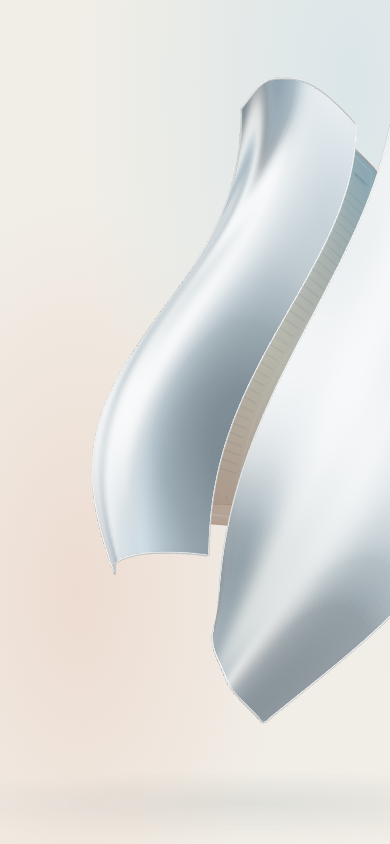
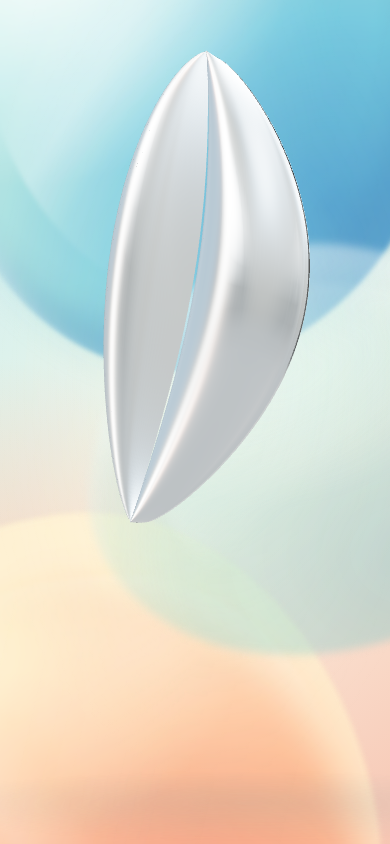
art(genesis): sculpt twin titanium shells and compose the Genesis 03 opening
Replace the irregular folios with drawn cambered shells, a rising shut-line and closed cut sections. Compose portrait framing for iPhone and iPad, articulate the opening and preserve the 30% camera handoff and downstream collections.

Verified 104 Chromium/WebKit states, real scroll/reverse and spring motion. Publish the production build and official homepage references atomically.

diff --git a/genesis-01/src.js b/genesis-01/src.js
@@ -3,9 +3,10 @@ import { createContinuum } from './continuum.js';
 import { opticalFilm } from './optics.js';
 import { createRevelation } from './revelation.js';
 import { stepSpring, openingAir } from './motion.js';
+import { folio, shellSkin, shellEdge } from './sculpture.js';
 import { RoomEnvironment } from 'three/addons/environments/RoomEnvironment.js';
 
-// A new procedural artifact: two unequal folded folios, never a swept ribbon.
+// GENESIS 03: two drawn titanium shells around one rising shut-line.
 // All deformation and camera motion share one reversible 0–1 timeline.
 const stage = document.querySelector('#stage');
 const fallback = document.querySelector('#fallback');
@@ -33,14 +34,22 @@ const room=new RoomEnvironment();
 const card=(color,x,y,z,sx,sy)=>{const m=new THREE.Mesh(new THREE.PlaneGeometry(sx,sy),new THREE.MeshBasicMaterial({color,side:THREE.DoubleSide}));m.position.set(x,y,z);m.lookAt(0,0,0);room.add(m);};
 card(0x18242c,-1.65,.2,4,.62,7);card(0xfff5e7,1.8,2,3,.65,6);
 card(0xc1e4ff,-3,2,2,3,7);card(0xf3c9ac,4,-1,1,2,6);card(0x252a30,1,1,-3,1.8,7);
-const env=pmrem.fromScene(room,.04);scene.environment=env.texture;room.dispose();pmrem.dispose();
+const env=pmrem.fromScene(room,.04);scene.environment=env.texture;
+// Only the opening sculpture receives this coachwork studio. The archive,
+// editorial rail and collection gateway keep their existing environment.
+for(const child of [...room.children]) if(child.geometry?.type==='PlaneGeometry'){
+ child.geometry.scale(1.45,1.12,1);
+}
+const sculptureEnvironment=pmrem.fromScene(room,.035).texture;
+room.dispose();pmrem.dispose();
 scene.add(new THREE.HemisphereLight(0xdceefa,0xd7b7a2,.75));
 const key=new THREE.DirectionalLight(0xfff5e6,2.2);key.position.set(-3,5,6);scene.add(key);
 const sky=new THREE.DirectionalLight(0xb9d8ef,1.4);sky.position.set(4,2,-1);scene.add(sky);
 const peach=new THREE.DirectionalLight(0xf6baa0,.8);peach.position.set(-2,-3,3);scene.add(peach);
 const sculpture=new THREE.Group();scene.add(sculpture);sculpture.rotation.set(-.09,-.32,-.18);
-const titanium=new THREE.MeshPhysicalMaterial({color:0x91a0a7,metalness:.96,roughness:.34,anisotropy:.42,clearcoat:.16,clearcoatRoughness:.26,side:THREE.DoubleSide});
+const titanium=new THREE.MeshPhysicalMaterial({color:0xc1cbd0,metalness:.94,roughness:.24,anisotropy:.28,clearcoat:.24,clearcoatRoughness:.20,side:THREE.DoubleSide});
 const edgeMaterial=new THREE.MeshStandardMaterial({color:0xdde3e4,metalness:1,roughness:.12,transparent:true});
+titanium.envMap=edgeMaterial.envMap=sculptureEnvironment;
 titanium.transparent=true;titanium.forceSinglePass=true;
 // Deterministic hairline finish; no external texture or noise animation.
 const finish=new Uint8Array(256*256*4);
@@ -49,44 +58,18 @@ for(let y=0;y<256;y++)for(let x=0;x<256;x++){
  finish[i]=finish[i+1]=finish[i+2]=n;finish[i+3]=255;
 }
 const brushed=new THREE.DataTexture(finish,256,256);brushed.wrapS=brushed.wrapT=THREE.RepeatWrapping;brushed.repeat.set(3,1);brushed.needsUpdate=true;
-titanium.bumpMap=brushed;titanium.bumpScale=.004;
+titanium.bumpMap=brushed;titanium.bumpScale=.00065;
 // Broad satin faces and a finer pressed crest respond differently to the
 // same light card; the finish stays attached to the authored surface UVs.
 titanium.onBeforeCompile=shader=>{
  shader.fragmentShader=shader.fragmentShader.replace('#include <roughnessmap_fragment>',`#include <roughnessmap_fragment>
   float pressed = smoothstep(.55,.70,vBumpMapUv.x) * (1.0-smoothstep(.70,.86,vBumpMapUv.x));
-  roughnessFactor = clamp(roughnessFactor + .045*sin(vBumpMapUv.y*8.0) - .11*pressed,.23,.46);
+  roughnessFactor = clamp(roughnessFactor + .018*sin(vBumpMapUv.y*3.14159) - .035*pressed,.19,.29);
  `);
 };
 const films=[];const morphs=[];const filmEdges=[];
 
-// s: left/right folio, u: spine→cut edge, v: foot→crown, open: authored morph target.
-function folio(s,u,v,open=0,layer=-1){
- const t=v*2-1;
- const w=s<0 ? .92 : 1.58;
- const crown=s<0 ? .12 : -.30;
- const width=w*(.42+.64*Math.sin(v*Math.PI*.92)+.12*Math.sin(v*7));
- const seam=.25*Math.sin(t*2.1)+.10*t;
- let x=seam+s*(.085+width*u);
- let y=t*2.26 + crown*u + .20*Math.sin(u*Math.PI)*Math.sin(v*2.4) - .38*u*u*(1-v) - .42*u*u*Math.pow(v,5);
- // A pressed ridge and broad concave face: a folio with material memory.
- let z=.64*Math.sin(u*Math.PI*1.12)+.48*u*u+.32*Math.sin(v*4+u*2)-.12*t;
- z+=s<0 ? .18*u : -.19*u;
- z+=.19*Math.tanh((u-.65)*9)+.32*Math.pow(v,5)*u;
- // Pressed shoulder, shallow concavity and a rolled cut edge. The crease
- // remains deliberately asymmetric, like a hand-formed body panel.
- z+=.055*Math.exp(-Math.pow((u-.965)*24,2))*Math.sin(v*Math.PI);
- z-=.07*Math.sin(u*Math.PI)*Math.sin(v*Math.PI*1.2);
- if(s<0){y=y*.85+.13;x-=.13*Math.pow(v,4);}
- x+=s*open*(.5+u*.9);z+=open*(u*.4);y+=open*s*u*.14;
- if(layer>=0){
-  x=seam+(x-seam)*(.86-layer*.045);
-  y=y*(.91-layer*.025)+layer*.045;
-  z-=.65+layer*.18;
- }
- return new THREE.Vector3(x,y,z);
-}
-function grid(fn,nu=44,nv=92){
+function grid(fn,nu=56,nv=128){
  const points=[],uv=[],idx=[];
  for(let j=0;j<=nv;j++)for(let i=0;i<=nu;i++){points.push(...fn(i/nu,j/nv).toArray());uv.push(i/nu,j/nv);}
  for(let j=0;j<nv;j++)for(let i=0;i<nu;i++){const a=j*(nu+1)+i,b=a+nu+1;idx.push(a,b,a+1,b,b+1,a+1);}
@@ -96,17 +79,9 @@ function morphMesh(closed,opened,material){
  closed.morphAttributes.position=[opened.attributes.position];closed.morphAttributes.normal=[opened.attributes.normal];
  const mesh=new THREE.Mesh(closed,material);sculpture.add(mesh);morphs.push(mesh);return mesh;
 }
-function border(s,open){
- const pts=[];
- for(let j=0;j<=92;j++)pts.push(folio(s,0,j/92,open));
- for(let i=1;i<=44;i++)pts.push(folio(s,i/44,1,open));
- for(let j=91;j>=0;j--)pts.push(folio(s,1,j/92,open));
- for(let i=43;i>=0;i--)pts.push(folio(s,i/44,0,open));
- return new THREE.TubeGeometry(new THREE.CatmullRomCurve3(pts,true),256,.009,5,true);
-}
 for(const s of [-1,1]){
- morphMesh(grid((u,v)=>folio(s,u,v)),grid((u,v)=>folio(s,u,v,1)),titanium);
- morphMesh(border(s,0),border(s,1),edgeMaterial);
+ morphMesh(shellSkin(s,0),shellSkin(s,1),titanium);
+ morphMesh(shellEdge(s,0),shellEdge(s,1),edgeMaterial);
 }
 // A narrow opalescent seam is physically caught between the two metal lips.
 const seamPoint=(u,v,open)=>{
@@ -204,11 +179,13 @@ function pose(p,air=p){
  titanium.envMapIntensity=1.07+.11*depth-.06*archive+.13*returnLight;
  // Reflection travels across the final plate once, then comes to rest.
  scene.environmentRotation.set(0,.10*awake+.12*depth-.08*archive+.40*ease(.94,.995,p),0);
+ titanium.envMapRotation.copy(scene.environmentRotation);
+ edgeMaterial.envMapRotation.copy(scene.environmentRotation);
  key.position.set(-3+2.2*returnLight,5,6);
  seam.morphTargetInfluences[0]=ease(.17,.235,p);
- seamMaterial.uniforms.opacity.value=.68*(1-ease(.22,.27,p));
+ seamMaterial.uniforms.opacity.value=.52*(1-ease(.178,.22,p));
  seamMaterial.uniforms.lightPhase.value=air;
- films.forEach(film=>{film.material.uniforms.lightPhase.value=air;});
+ films.forEach(film=>{film.material.uniforms.lightPhase.value=air;film.material.uniforms.opacity.value=.84*ease(.165,.225,p);});
  edgeMaterial.roughness=.12+.025*archive;
  const opening=ease(.17,.235,p),split=ease(.23,.27,p),pass=ease(.27,.30,p);
  // CSS and WebGL receive the same progress rather than drifting independently.
@@ -216,21 +193,27 @@ function pose(p,air=p){
  atmosphere.style.setProperty('--optic-align',ease(.37,.43,air).toFixed(3));
  for(let i=0;i<4;i++)morphs[i].morphTargetInfluences[0]=opening;
  films.forEach((film,i)=>{
-  const release=ease(.23+i*.0015,.264+i*.0015,p);
+  const release=ease(.205+i*.002,.267+i*.001,p);
   film.morphTargetInfluences[0]=release;filmEdges[i].morphTargetInfluences[0]=release;
  });
  // The artifact stays in place. The camera crosses its z-depth at the final beat.
- sculpture.position.set(mobile?.48:1.16,mobile?.53:.05,0);
- sculpture.scale.setScalar(mobile?.78:1);
- sculpture.rotation.x=-.09+.035*Math.sin(awake*Math.PI);
- sculpture.rotation.y=THREE.MathUtils.lerp(-.42,0,split)+.095*Math.sin(awake*Math.PI);
- sculpture.rotation.z=THREE.MathUtils.lerp(-.21,-.035,split);
+ const portraitRoom=clamp((measuredHeight-667)/177,0,1);
+ sculpture.position.set(mobile?-.06:1.30,mobile?THREE.MathUtils.lerp(.86,1.02,portraitRoom)-.12*opening:.10,0);
+ sculpture.scale.setScalar(mobile?THREE.MathUtils.lerp(.56,.71,portraitRoom)*(1-.08*opening):1);
+ sculpture.rotation.x=-.10+.07*Math.sin(awake*Math.PI);
+ sculpture.rotation.y=THREE.MathUtils.lerp(-.48,-.04,split)+.22*ease(0,.16,p)*(1-split);
+ sculpture.rotation.z=THREE.MathUtils.lerp(-.23,-.035,split);
  const startZ=mobile?10.2:9.5;
  // Hold a composed portrait while the fold opens, before the camera enters.
- const approach=ease(.12,.23,p)*.66+awake*.06;
+ const approach=ease(.12,.23,p)*(mobile?.26:.66)+awake*.06;
  const threshold=ease(.23,.27,p)*4.13;
- const penetration=pass*(startZ-4.0);
- camera.position.set(THREE.MathUtils.lerp(0,sculpture.position.x,split),THREE.MathUtils.lerp(.12,sculpture.position.y,split),startZ-approach-threshold-penetration);
+ camera.position.set(THREE.MathUtils.lerp(0,sculpture.position.x,split),THREE.MathUtils.lerp(.12,sculpture.position.y,split),THREE.MathUtils.lerp(startZ-approach-threshold,-.85,pass));
+ camera.lookAt(camera.position.x,camera.position.y,-8);
+ const handoff=ease(.27,.30,p);
+ sculpture.position.x=THREE.MathUtils.lerp(sculpture.position.x,mobile?.48:1.16,handoff);
+ sculpture.position.y=THREE.MathUtils.lerp(sculpture.position.y,mobile?.53:.05,handoff);
+ camera.position.x=THREE.MathUtils.lerp(camera.position.x,sculpture.position.x,handoff);
+ camera.position.y=THREE.MathUtils.lerp(camera.position.y,sculpture.position.y,handoff);
  camera.lookAt(camera.position.x,camera.position.y,-8);
  const scatter=ease(.30,.37,p),arrive=ease(.37,.43,p);
  if(p>.30){
@@ -246,7 +229,7 @@ function pose(p,air=p){
  const reunion=ease(.925,.989,p);
  titanium.opacity=edgeMaterial.opacity=p>.90?ease(.925,.949,p):1;
  sculpture.visible=p<.48||p>.925;
- seam.visible=p<.27;
+ seam.visible=p<.22;
  if(p>.925){
   // Metal returns from behind the leaves along their common spine; it never
   // scales up from a zero-sized object in the middle of the photograph.
@@ -256,7 +239,7 @@ function pose(p,air=p){
   for(let i=0;i<4;i++)morphs[i].morphTargetInfluences[0]=.44*(1-reunion);
  }
  // Leave the surfaces behind the camera instead of carrying them into the rail.
- films.forEach(film=>film.visible=p<.48);filmEdges.forEach(rim=>rim.visible=p<.48);
+ films.forEach(film=>film.visible=p<.48);filmEdges.forEach(rim=>{rim.visible=p<.48;rim.material.opacity=.42*ease(.18,.23,p);});
  document.documentElement.style.setProperty('--revelation',ease(.43,.46,p)*(1-ease(.485,.525,p)));
  document.documentElement.style.setProperty('--source',ease(.31,.35,p)*(1-ease(.65,.72,p)));
  shadow.material.opacity=(1-split)*(1-ease(.46,.48,p));

diff --git a/genesis-01/sculpture.js b/genesis-01/sculpture.js
@@ -1,0 +1,88 @@
+import * as THREE from 'three';
+
+// Two coach-built shells. A single rising shoulder, a long drawn waist and
+// a swept central shut-line define every section; no noise displaces the skin.
+export function folio(side, u, v, open = 0, layer = -1) {
+  const t = 2 * v - 1;
+  const envelope = Math.pow(Math.max(0.00004, Math.sin(Math.PI * v)), .68);
+  const shoulder = envelope * (.82 + .24 * v);
+  const width = (side < 0 ? .88 : 1.23) * shoulder;
+  const spine = .20 * Math.sin((v - .14) * Math.PI) - .20 * t;
+  const shut = .021 * envelope;
+  let x = spine + side * (shut + u * width);
+  let y = t * 2.28 + (side < 0 ? .16 : -.12) * u * envelope;
+  // The broad convex volume turns into a restrained concave return at the
+  // outer shoulder. The narrow highlight is made by curvature, not a stripe.
+  const camber = Math.sin(u * Math.PI * .93);
+  let z = .22 + .77 * camber * shoulder + .15 * t * t
+    - .17 * u * u + (side < 0 ? .10 : -.05) * u * shoulder;
+  z -= .075 * Math.exp(-Math.pow((u - .84) / .115, 2)) * envelope;
+  z += .028 * Math.exp(-Math.pow((u - .98) / .035, 2)) * envelope;
+  // Each leaf rotates about its drawn spine while its hinge translates into
+  // the passage. Continuous target topology keeps reverse scrolling exact.
+  const angle = side * open * .82;
+  const dx = x - spine, dz = z - .22;
+  x = spine + dx * Math.cos(angle) + dz * Math.sin(angle) + side * open * .94;
+  z = .22 - dx * Math.sin(angle) + dz * Math.cos(angle) - open * .18;
+  y += side * open * u * .08;
+  if (layer >= 0) {
+    x = spine + (x - spine) * (.85 - layer * .045);
+    y = y * (.91 - layer * .025) + layer * .045;
+    z -= .65 + layer * .18;
+  }
+  return new THREE.Vector3(x, y, z);
+}
+
+export function shellSkin(side, open) {
+  const nu = 56, nv = 128, positions = [], uv = [], indices = [];
+  const count = (nu + 1) * (nv + 1);
+  for (let back = 0; back < 2; back++) {
+    for (let j = 0; j <= nv; j++) for (let i = 0; i <= nu; i++) {
+      const p = folio(side, i / nu, j / nv, open);
+      positions.push(p.x, p.y, p.z - back * .032);
+      uv.push(i / nu, j / nv);
+    }
+    for (let j = 0; j < nv; j++) for (let i = 0; i < nu; i++) {
+      const a = back * count + j * (nu + 1) + i, b = a + nu + 1;
+      if (back) indices.push(a, a + 1, b, b, a + 1, b + 1);
+      else indices.push(a, b, a + 1, b, b + 1, a + 1);
+    }
+  }
+  const g = new THREE.BufferGeometry();
+  g.setAttribute('position', new THREE.Float32BufferAttribute(positions, 3));
+  g.setAttribute('uv', new THREE.Float32BufferAttribute(uv, 2));
+  g.setIndex(indices);
+  g.computeVertexNormals();
+  return g;
+}
+
+// A real 32 mm cut section joins the front to a return skin. Unlike a tube
+// laid on a zero-thickness plane, this bevel remains part of the silhouette.
+export function shellEdge(side, open) {
+  const boundary = [];
+  for (let j = 0; j <= 128; j++) boundary.push([0, j / 128]);
+  for (let i = 1; i <= 56; i++) boundary.push([i / 56, 1]);
+  for (let j = 127; j >= 0; j--) boundary.push([1, j / 128]);
+  for (let i = 55; i >= 0; i--) boundary.push([i / 56, 0]);
+  const pos = [], uv = [], indices = [];
+  const n = boundary.length;
+  for (let k = 0; k <= 4; k++) {
+    const theta = k / 4 * Math.PI;
+    for (const [u, v] of boundary) {
+      const p = folio(side, u, v, open);
+      p.z -= .016 * (1 - Math.cos(theta));
+      pos.push(p.x, p.y, p.z);
+      uv.push(u, v);
+    }
+  }
+  for (let k = 0; k < 4; k++) for (let j = 0; j < n; j++) {
+    const a = k * n + j, b = k * n + (j + 1) % n;
+    indices.push(a, b, a + n, b, b + n, a + n);
+  }
+  const g = new THREE.BufferGeometry();
+  g.setAttribute('position', new THREE.Float32BufferAttribute(pos, 3));
+  g.setAttribute('uv', new THREE.Float32BufferAttribute(uv, 2));
+  g.setIndex(indices);
+  g.computeVertexNormals();
+  return g;
+}

diff --git a/genesis-01/index.html b/genesis-01/index.html
@@ -1,6 +1,6 @@
 <!doctype html>
 <html lang="en">
-<head><meta charset="UTF-8"><meta name="viewport" content="width=device-width, initial-scale=1, viewport-fit=cover"><meta name="theme-color" content="#f1eee7"><title>TOHEŞAR — Genesis — Memory Alloy</title><link rel="stylesheet" href="/style.css"></head>
+<head><meta charset="UTF-8"><meta name="viewport" content="width=device-width, initial-scale=1, viewport-fit=cover"><meta name="theme-color" content="#f1eee7"><title>TOHEŞAR — Genesis 03 — Memory Alloy</title><link rel="stylesheet" href="/style.css"></head>
 <body>
 <main aria-label="Memory Alloy, an interactive sculpture">
 <div id="atmosphere" aria-hidden="true">
@@ -25,8 +25,8 @@
 <a class="skip-experience" href="#destinations">SKIP TO DESTINATIONS</a>
 <nav id="destinations" aria-label="TOHEŞAR destinations"><a href="/journal/">JOURNAL</a><a href="/world/">WORLD</a><a href="/symbol/">SYMBOL</a><a href="/history/">HISTORY</a><a href="https://www.instagram.com/tohesar/" target="_blank" rel="noopener noreferrer">INSTAGRAM</a></nav>
 <div class="scroll-hint">SCROLL TO UNFOLD <span>↓</span></div>
-<div id="fallback" hidden><img src="./assets/poster.png" alt="Memory Alloy — folded titanium and translucent film"><p>MEMORY ALLOY / GENESIS 02<br>Still study — interactive rendering unavailable.</p></div>
-<noscript><p class="no-js">MEMORY ALLOY / GENESIS 02 — Enable JavaScript to unfold the sculpture.</p></noscript>
+<div id="fallback" hidden><img src="./assets/poster.png" alt="Memory Alloy — folded titanium and translucent film"><p>MEMORY ALLOY / GENESIS 03<br>Still study — interactive rendering unavailable.</p></div>
+<noscript><p class="no-js">MEMORY ALLOY / GENESIS 03 — Enable JavaScript to unfold the sculpture.</p></noscript>
 </main>
 <script type="module" src="/src.js"></script>
 </body></html>

diff --git a/genesis-01/style.css b/genesis-01/style.css
@@ -396,3 +396,6 @@ main{position:relative}
  .threshold-external{right:5%;bottom:7%;font-size:8px}
 }
 @media(prefers-reduced-motion:reduce){.threshold-links a{transition:none}}
+
+/* GENESIS 03: leave a quiet interval between the floating metal and its title. */
+@media(max-width:1000px) and (orientation:portrait){.caption{top:auto;bottom:12%}}
